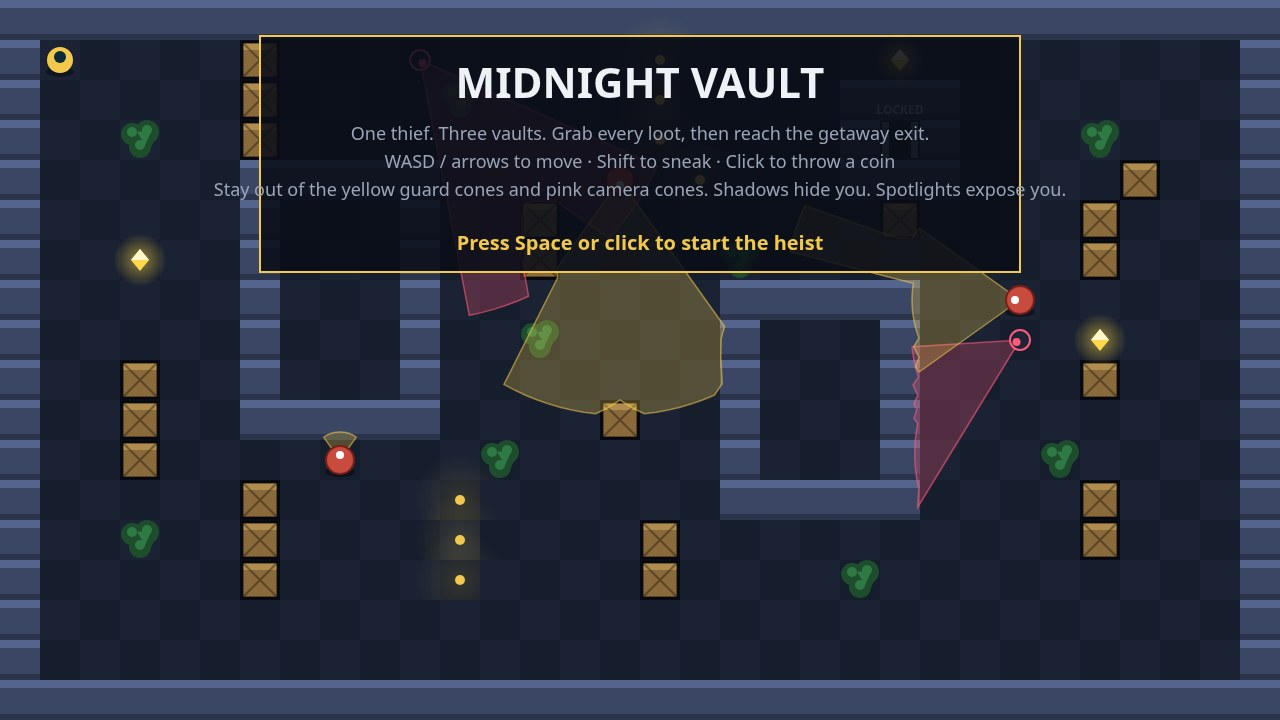
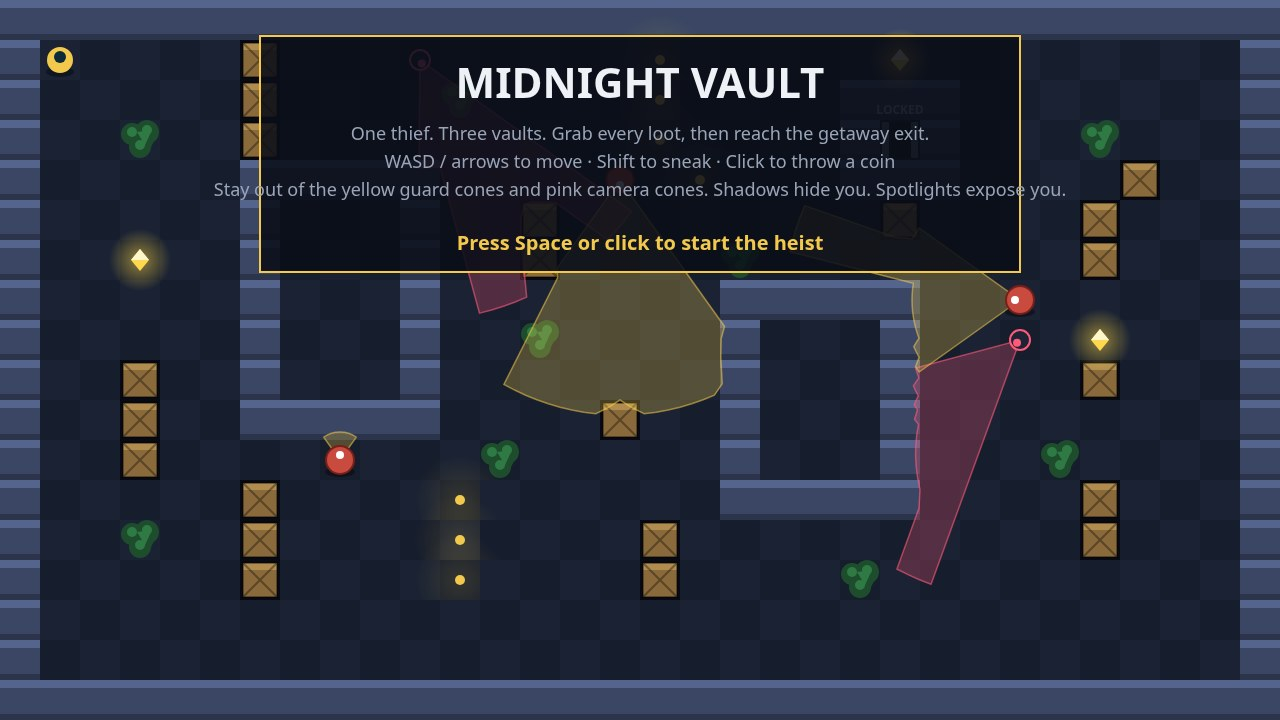
Rewrite game sources in-session: heist levels, cameras, alarm meter, loot

Changed region(s): [[0.6875, 0.4583, 0.8125, 0.825], [0.3438, 0.3667, 0.375, 0.4583]]

diff --git a/game/src/world.js b/game/src/world.js
@@ -1,7 +1,8 @@
 // The game's rules and state, with no drawing and no browser in it:
-// the player, patrolling guards with vision cones, detection, relics,
-// pebble distractions, lives and the exit. step() advances one fixed
-// step and returns what happened as bit flags.
+// the thief, patrolling guards with vision cones, sweeping security
+// cameras, the alarm meter, loot stashes, coin distractions, lives and
+// the getaway exit. step() advances one fixed step and returns what
+// happened as bit flags.
 import { CAMERA, COLS, FIELD, GUARD, LIVES, PEBBLES_PER_LEVEL, PLAYER, ROWS, TILE } from './config.js';
 import { LEVELS, parseLevel } from './levels.js';
 
@@ -94,7 +95,7 @@ export function createWorld() {
       || solidAtPixel(x, y - radius) || solidAtPixel(x, y + radius);
   }
 
-  // Line of sight: true when no wall or crate sits between the two points.
+  // Line of sight: true when no wall or cabinet sits between the two points.
   function lineOfSight(x0, y0, x1, y1) {
     const d = dist(x0, y0, x1, y1);
     const steps = Math.max(1, Math.ceil(d / 6));
@@ -183,7 +184,7 @@ export function createWorld() {
       if (state.pebble.timer <= 0) state.pebble = null;
     }
 
-    // Relics.
+    // Loot stashes.
     for (const r of state.relics) {
       if (!r.taken && dist(p.x, p.y, r.x, r.y) < 26) {
         r.taken = true;
@@ -225,7 +226,7 @@ export function createWorld() {
           g.pauseTimer = 0.7;
         }
       }
-      // Caught: a guard touches the player.
+      // Caught: a guard touches the thief.
       if (dist(g.x, g.y, p.x, p.y) < GUARD.radius + PLAYER.radius - 2) {
         state.lives -= 1;
         state.detection = 0;
@@ -253,7 +254,7 @@ export function createWorld() {
       if (state.detection < 40) state.alarm = false;
     }
 
-    // Exit opens only once every relic is taken.
+    // The getaway exit opens only once every loot stash is taken.
     if (relicsLeft === 0 && dist(p.x, p.y, state.exit.x, state.exit.y) < 30) {
       state.score += 250;
       if (state.levelIndex + 1 >= LEVELS.length) {

diff --git a/game/src/render.js b/game/src/render.js
@@ -1,6 +1,6 @@
 // Drawing only: the world's state and the current screen in, pixels out.
-// The 1280x720 playfield is scaled to fit the window. Vision cones are
-// raycast polygons, so cover really does cut them off.
+// The 1280x720 playfield is scaled to fit the window. Guard and camera
+// vision cones are raycast polygons, so cover really does cut them off.
 import { COLS, FIELD, FONT, GUARD, PALETTE, ROWS, TILE } from './config.js';
 
 export const SCREEN_TITLE = 'title';
@@ -84,7 +84,7 @@ export function createRenderer(canvas) {
         }
       }
     }
-    // Exit door.
+    // Getaway exit door.
     const e = state.exit;
     const open = state.relics.every((r) => r.taken);
     context.fillStyle = open ? PALETTE.exit : PALETTE.exitLocked;
@@ -115,7 +115,7 @@ export function createRenderer(canvas) {
     for (let i = 0; i <= steps; i += 1) {
       const a = guard.facing - GUARD.coneHalfAngle + (2 * GUARD.coneHalfAngle * i) / steps;
       let r = range;
-      // March out until a wall or crate blocks the ray.
+      // March out until a wall or cabinet blocks the ray.
       for (let d = 12; d <= range; d += 8) {
         const x = guard.x + Math.cos(a) * d; const y = guard.y + Math.sin(a) * d;
         const cx = Math.floor(x / TILE); const cy = Math.floor(y / TILE);
@@ -167,7 +167,7 @@ export function createRenderer(canvas) {
   }
 
   function drawActors(state) {
-    // Pebble target.
+    // Coin target.
     if (state.pebble) {
       context.strokeStyle = PALETTE.gold; context.lineWidth = 2;
       context.beginPath(); context.arc(state.pebble.x, state.pebble.y, 10 + (1.2 - state.pebble.timer) * 8, 0, Math.PI * 2); context.stroke();

diff --git a/game/src/main.js b/game/src/main.js
@@ -62,7 +62,7 @@ function runGame() {
   function winGame() {
     screen = SCREEN_WIN;
     if (world.state.score > best) { best = world.state.score; saveBest(best); }
-    announce(`Ghost. Score ${world.state.score}. Best ${best}.`);
+    announce(`Clean getaway. Score ${world.state.score}. Best ${best}.`);
   }
 
   function handleActions() {
@@ -118,6 +118,7 @@ function runGame() {
     renderer.draw(world.state, screen, best, world);
   }
 
+  // Leaving the tab pauses a running game rather than letting guards close in unseen.
   document.addEventListener('visibilitychange', () => {
     if (document.hidden && screen === SCREEN_PLAY) { screen = SCREEN_PAUSED; announce('Paused.'); }
   });

diff --git a/game/src/shots.js b/game/src/shots.js
@@ -47,5 +47,7 @@ export function stageShot(name, world) {
   s.guards[0].x = 620; s.guards[0].y = 180; s.guards[0].facing = Math.PI / 2;
   s.guards[1].x = 340; s.guards[1].y = 460; s.guards[1].facing = -Math.PI / 2;
   s.guards[2].x = 1020; s.guards[2].y = 300; s.guards[2].facing = Math.PI;
+  if (s.cameras[0]) { s.cameras[0].facing = 1.1; }
+  if (s.cameras[1]) { s.cameras[1].facing = 2.4; }
   return { screen: SCREEN_TITLE, best: 0 };
 }

diff --git a/game/src/levels.js b/game/src/levels.js
@@ -111,7 +111,7 @@ export const LEVELS = [
   },
 ];
 
-// Parse a level map into tiles, relics, start, exit and guard spawns.
+// Parse a level map into tiles, loot stashes, start, exit and guard spawns.
 export function parseLevel(def) {
   const walls = new Set();
   const crates = new Set();

diff --git a/game/src/config.js b/game/src/config.js
@@ -23,7 +23,7 @@ export const GUARD = {
   coneHalfAngle: 0.62,
   coneRange: 235,
   coneRangeLit: 285,
-  // Detection fills per second while the player is seen.
+  // Detection fills per second while the thief is seen.
   detectRate: 78,
   detectRateBush: 22,
   detectRateLit: 105,
